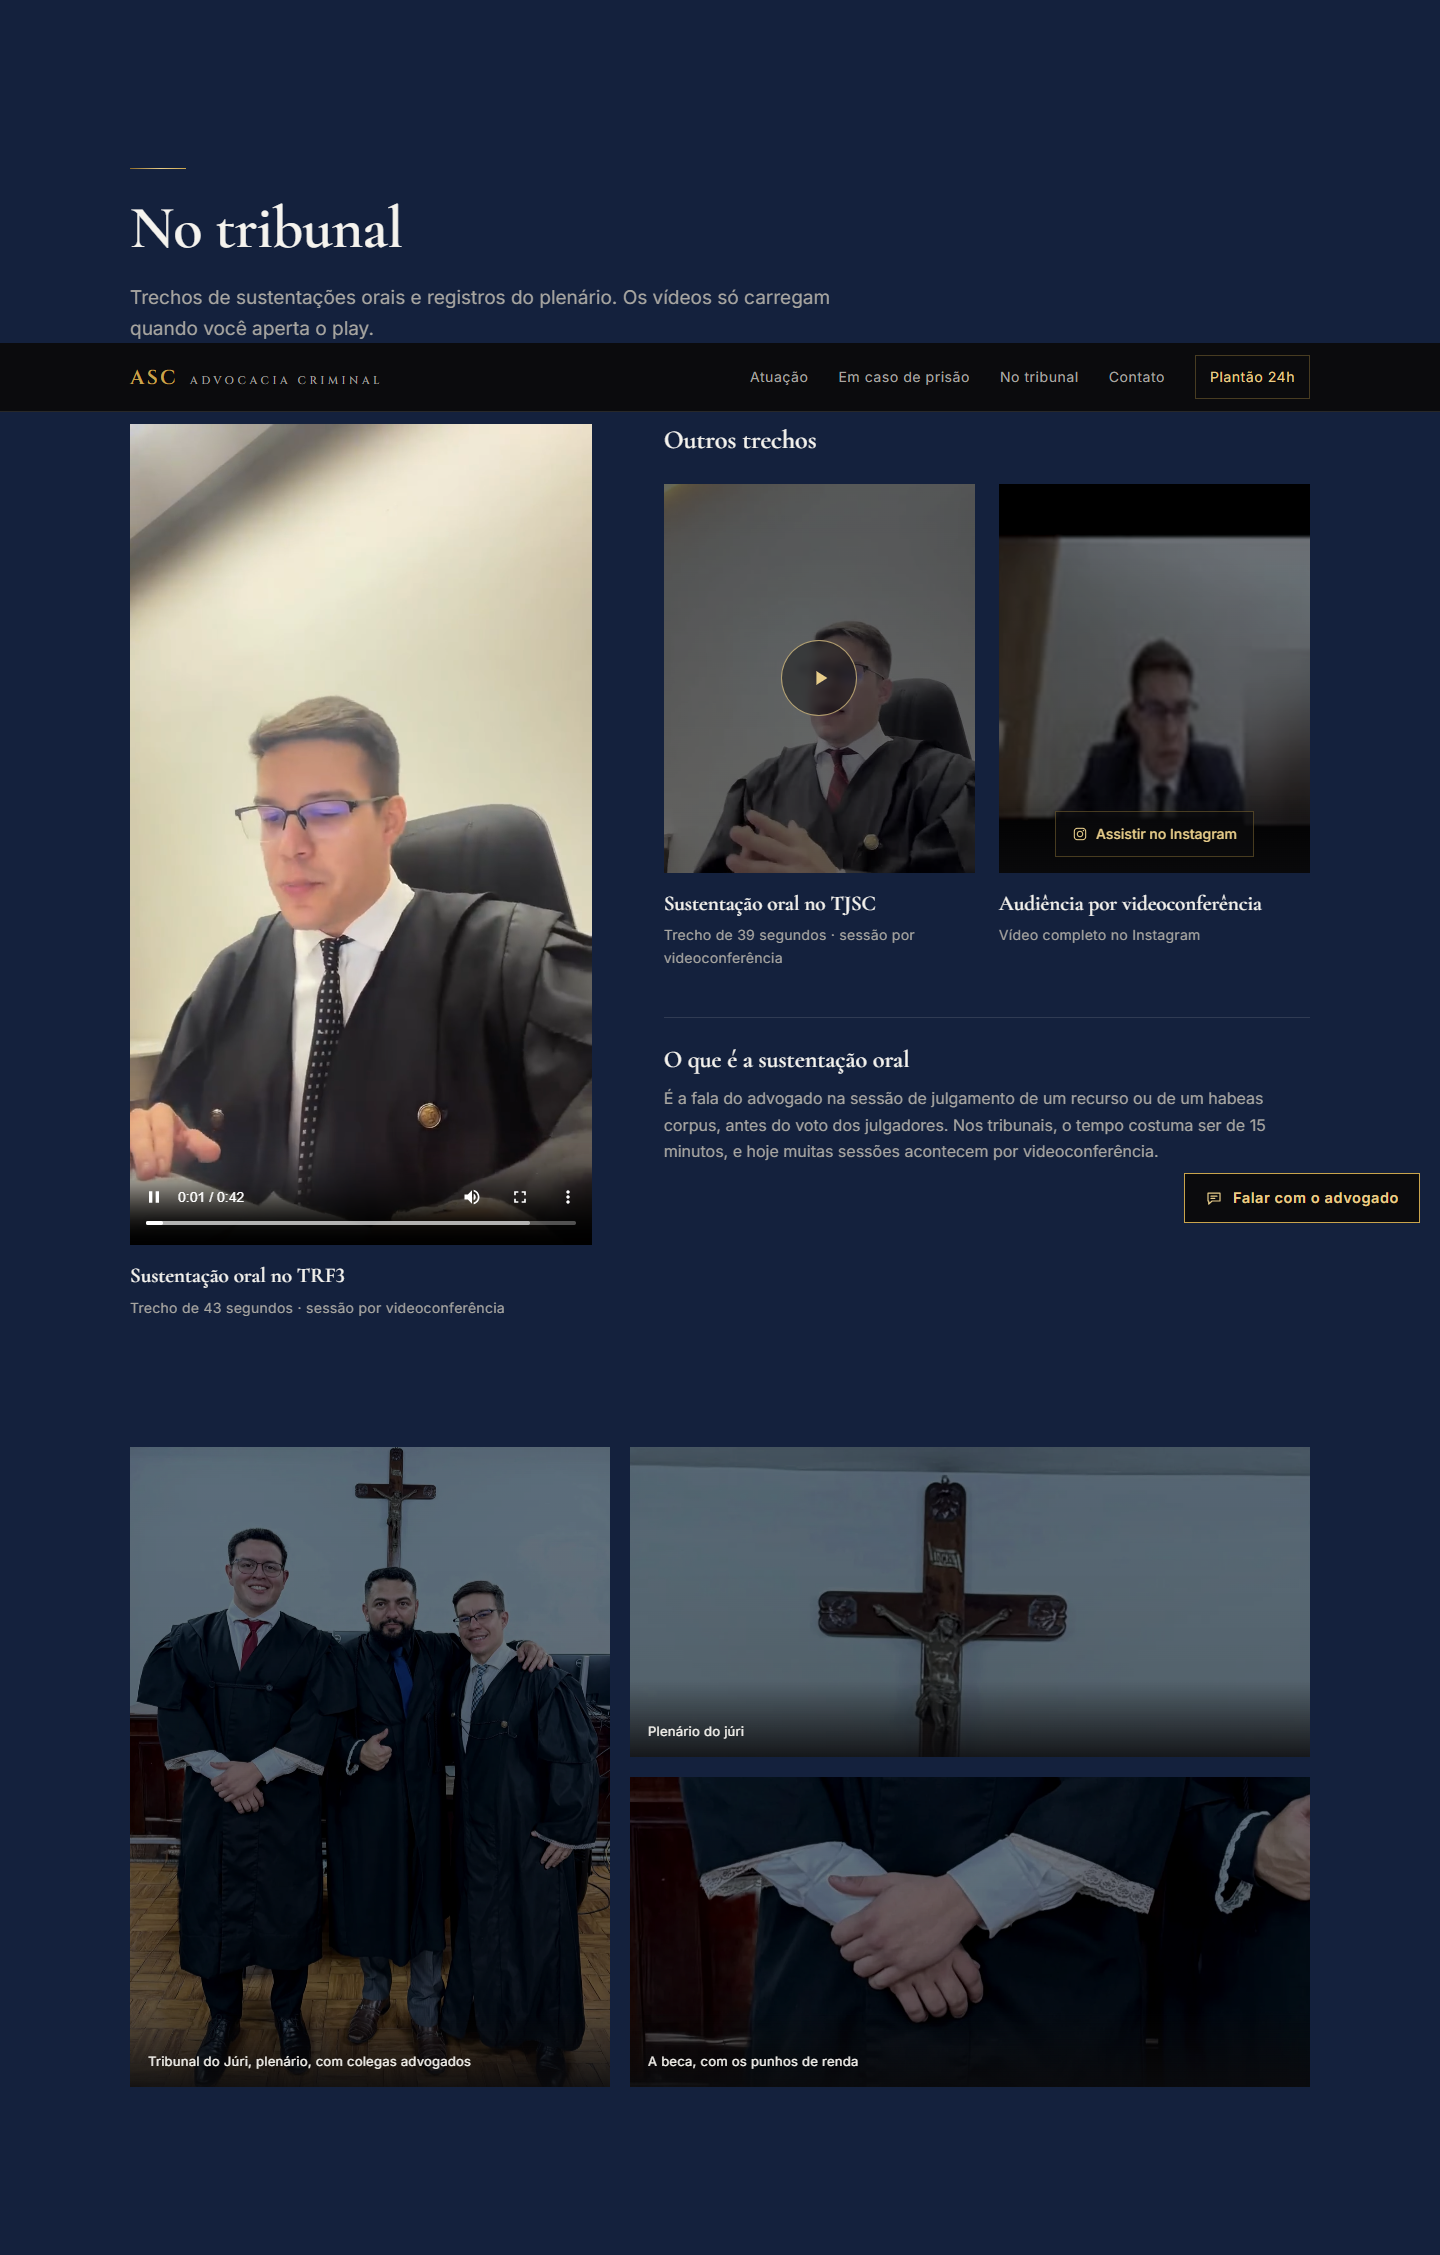
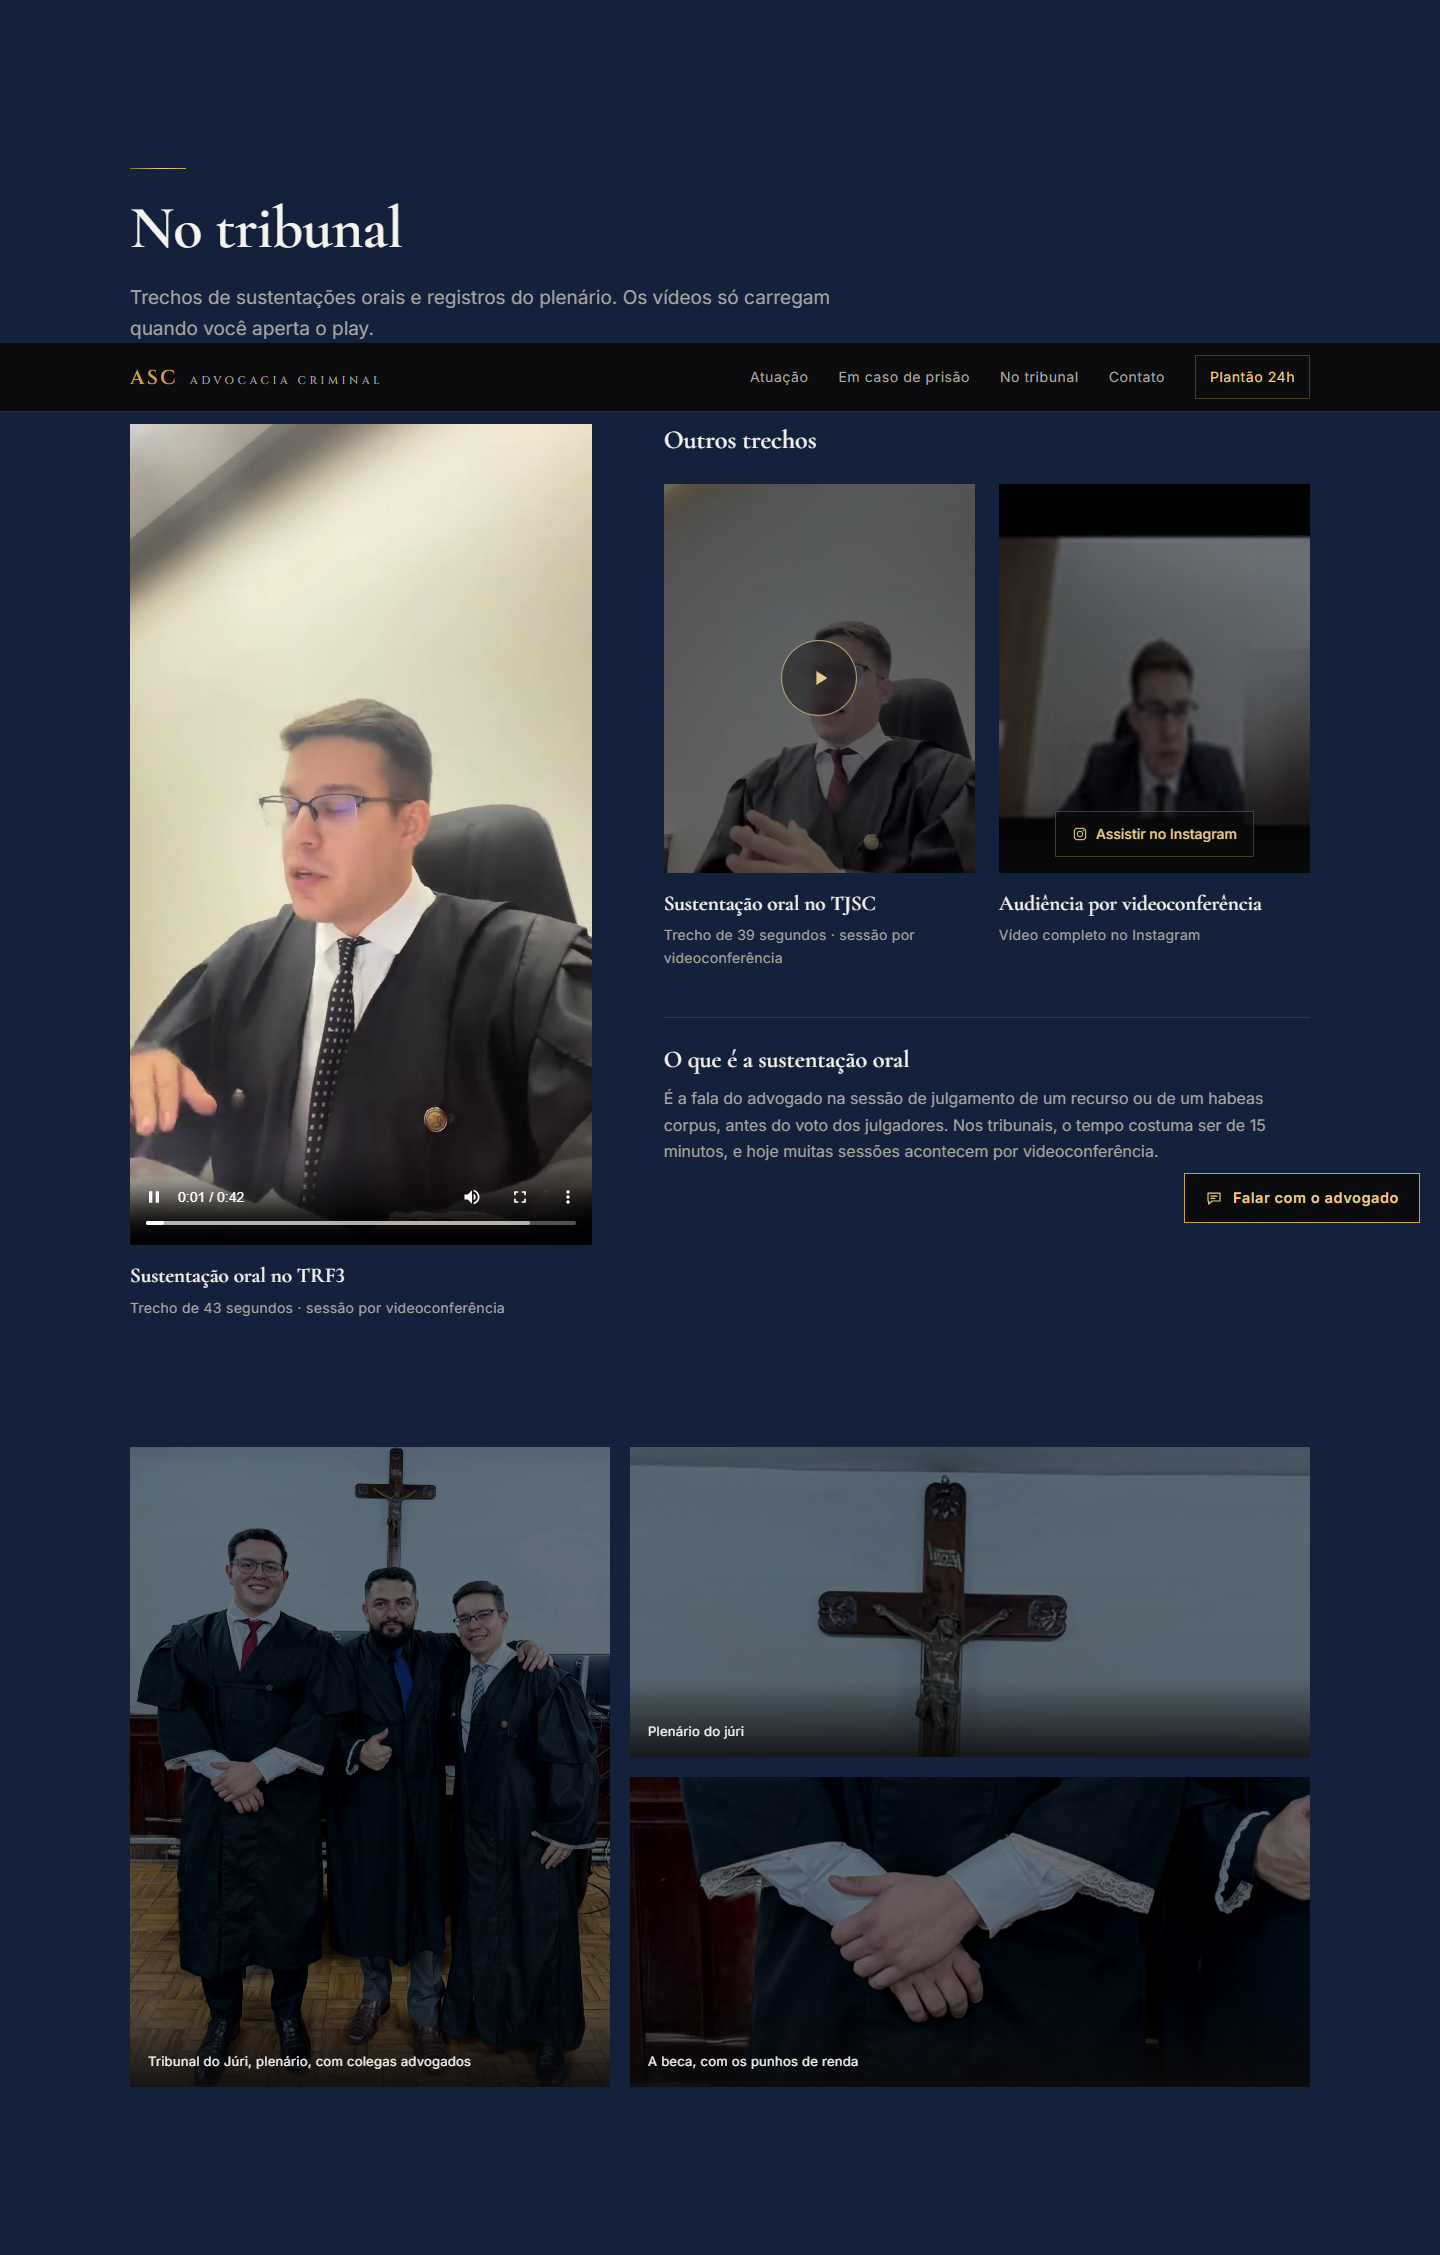
alisson: retrato no topo do celular e botão flutuante

Changed region(s): [[0.0625, 0.3104, 0.4375, 0.5277], [0.3125, 0.5277, 0.3438, 0.5588], [0.2812, 0.4656, 0.3125, 0.4967]]

diff --git a/celular/alisson.html b/celular/alisson.html
@@ -331,6 +331,30 @@ button{font:inherit;color:inherit;background:none;border:0;padding:0;cursor:poin
   .so-cel{display:inline-flex}
   .so-pc{display:none}
 }
+@media (max-width:600px){
+  /* topo no celular: retrato na primeira tela, título sobre o degradê, plantão logo abaixo */
+  .demo{font-size:11.5px;padding:5px 12px}
+  .demo .longo{display:none}
+  .barra .wrap{min-height:56px}
+  .topo{padding-block:0 24px;align-items:flex-start}
+  .topo-grid{display:flex;flex-direction:column;gap:0}
+  .mono{display:none}
+  .retrato{order:-1;width:auto;margin:0 -16px;justify-self:auto}
+  .retrato::before,.retrato figcaption{display:none}
+  .retrato .moldura{aspect-ratio:auto;height:46vh;height:46svh}
+  /* recorte do peito para cima: a foto é quadrada e fica mais larga que a moldura */
+  .retrato img{width:138%;max-width:none;height:auto;margin-left:-20%;object-fit:initial}
+  .retrato .moldura::after{background:linear-gradient(180deg,rgba(11,11,13,0) 38%,rgba(11,11,13,.72) 72%,var(--preto) 100%);mix-blend-mode:normal}
+  .topo-copy{position:relative;z-index:1;margin-top:-88px}
+  .topo h1{font-size:33px;line-height:1.04;max-width:none}
+  .assina{margin-top:14px;gap:14px}
+  .assina .regua{width:36px}
+  .assina p{font-size:23px}
+  .quem{margin-top:10px;font-size:13px}
+  .quem .pend{font-size:12px}
+  .topo .acoes{margin-top:18px}
+  .topo .acoes .btn.vazado{display:none}
+}
 @media (prefers-reduced-motion:reduce){
   *,*::before,*::after{transition-duration:.01ms!important;animation-duration:.01ms!important}
 }
@@ -338,7 +362,7 @@ button{font:inherit;color:inherit;background:none;border:0;padding:0;cursor:poin
 </head>
 <body>
 <a class="skip" href="#conteudo">Pular para o conteúdo</a>
-<div class="demo" role="note">Demonstração feita pela Zyrek · não é o site oficial do Dr. Alisson Sousa Cruz</div>
+<div class="demo" role="note">Demonstração feita pela Zyrek · não é o site oficial<span class="longo"> do Dr. Alisson Sousa Cruz</span></div>
 
 <header class="barra">
   <div class="wrap">
@@ -788,7 +812,8 @@ button{font:inherit;color:inherit;background:none;border:0;padding:0;cursor:poin
       es.forEach(function (e) { if (e.isIntersecting) vistos.add(e.target); else vistos.delete(e.target); });
       var fora = vistos.size > 0; f.classList.toggle("fora", fora); if (fora) fechar();
     }, { threshold: 0.1 });
-    ["ctaTopo", "plantao", "contato"].forEach(function (id) { var el = document.getElementById(id); if (el && !el.hidden) io.observe(el); });
+    // o topo inteiro conta: o botão só aparece depois que a pessoa rola a página (no desktop ele cobria a legenda do retrato)
+    ["topo", "plantao", "contato"].forEach(function (id) { var el = document.getElementById(id); if (el && !el.hidden) io.observe(el); });
   })();
 
   /* ===== fundo do topo: o único vídeo que carrega sozinho ===== */

diff --git a/landings-motion/alisson.html b/landings-motion/alisson.html
@@ -331,6 +331,30 @@ button{font:inherit;color:inherit;background:none;border:0;padding:0;cursor:poin
   .so-cel{display:inline-flex}
   .so-pc{display:none}
 }
+@media (max-width:600px){
+  /* topo no celular: retrato na primeira tela, título sobre o degradê, plantão logo abaixo */
+  .demo{font-size:11.5px;padding:5px 12px}
+  .demo .longo{display:none}
+  .barra .wrap{min-height:56px}
+  .topo{padding-block:0 24px;align-items:flex-start}
+  .topo-grid{display:flex;flex-direction:column;gap:0}
+  .mono{display:none}
+  .retrato{order:-1;width:auto;margin:0 -16px;justify-self:auto}
+  .retrato::before,.retrato figcaption{display:none}
+  .retrato .moldura{aspect-ratio:auto;height:46vh;height:46svh}
+  /* recorte do peito para cima: a foto é quadrada e fica mais larga que a moldura */
+  .retrato img{width:138%;max-width:none;height:auto;margin-left:-20%;object-fit:initial}
+  .retrato .moldura::after{background:linear-gradient(180deg,rgba(11,11,13,0) 38%,rgba(11,11,13,.72) 72%,var(--preto) 100%);mix-blend-mode:normal}
+  .topo-copy{position:relative;z-index:1;margin-top:-88px}
+  .topo h1{font-size:33px;line-height:1.04;max-width:none}
+  .assina{margin-top:14px;gap:14px}
+  .assina .regua{width:36px}
+  .assina p{font-size:23px}
+  .quem{margin-top:10px;font-size:13px}
+  .quem .pend{font-size:12px}
+  .topo .acoes{margin-top:18px}
+  .topo .acoes .btn.vazado{display:none}
+}
 @media (prefers-reduced-motion:reduce){
   *,*::before,*::after{transition-duration:.01ms!important;animation-duration:.01ms!important}
 }
@@ -338,7 +362,7 @@ button{font:inherit;color:inherit;background:none;border:0;padding:0;cursor:poin
 </head>
 <body>
 <a class="skip" href="#conteudo">Pular para o conteúdo</a>
-<div class="demo" role="note">Demonstração feita pela Zyrek · não é o site oficial do Dr. Alisson Sousa Cruz</div>
+<div class="demo" role="note">Demonstração feita pela Zyrek · não é o site oficial<span class="longo"> do Dr. Alisson Sousa Cruz</span></div>
 
 <header class="barra">
   <div class="wrap">
@@ -786,7 +810,8 @@ button{font:inherit;color:inherit;background:none;border:0;padding:0;cursor:poin
       es.forEach(function (e) { if (e.isIntersecting) vistos.add(e.target); else vistos.delete(e.target); });
       var fora = vistos.size > 0; f.classList.toggle("fora", fora); if (fora) fechar();
     }, { threshold: 0.1 });
-    ["ctaTopo", "plantao", "contato"].forEach(function (id) { var el = document.getElementById(id); if (el && !el.hidden) io.observe(el); });
+    // o topo inteiro conta: o botão só aparece depois que a pessoa rola a página (no desktop ele cobria a legenda do retrato)
+    ["topo", "plantao", "contato"].forEach(function (id) { var el = document.getElementById(id); if (el && !el.hidden) io.observe(el); });
   })();
 
   /* ===== fundo do topo: o único vídeo que carrega sozinho ===== */
